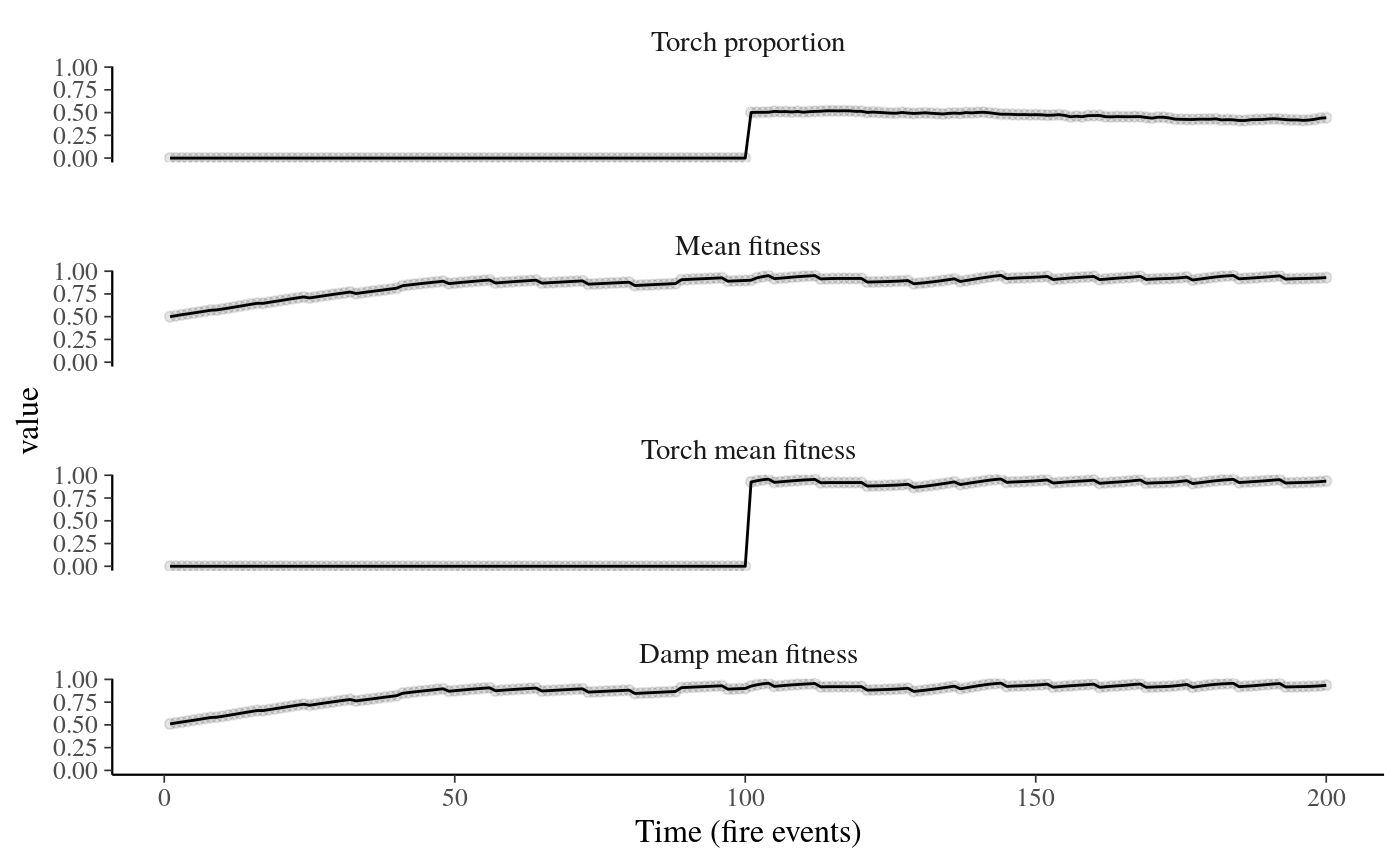
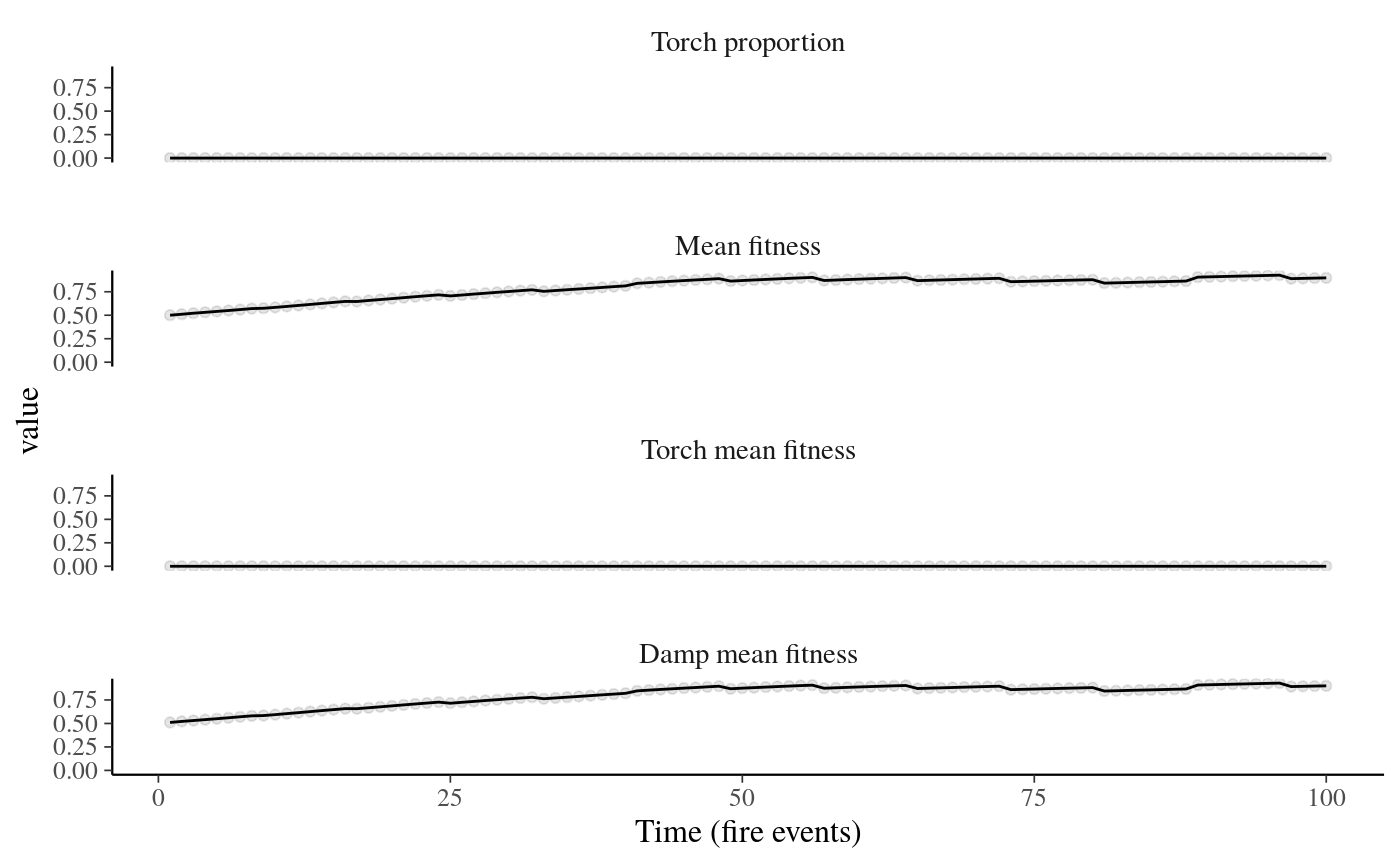
Installation

diff --git a/docs/articles/exploration.html b/docs/articles/exploration.html
@@ -92,7 +92,7 @@
 <span class="co">#&gt; ── Conflicts ───────────────────────────────────────────────────────────────────────────────────────────────────────────────────────── tidyverse_conflicts() ──</span>
 <span class="co">#&gt; ✖ dplyr::filter() masks stats::filter()</span>
 <span class="co">#&gt; ✖ dplyr::lag()    masks stats::lag()</span></pre></body></html></div>
-<div class="sourceCode" id="cb2"><html><body><pre class="r"><span class="fu"><a href="https://rdrr.io/pkg/symsympho/man/nichehiking.html">nichehiking</a></span>(<span class="kw">grid</span> <span class="kw">=</span> <span class="fl">100</span>, <span class="kw">torch_init</span> <span class="kw">=</span> <span class="fl">0.5</span>, <span class="kw">cycles</span> <span class="kw">=</span> <span class="fl">1</span>, <span class="kw">agemax</span> <span class="kw">=</span> <span class="fl">200</span>) <span class="kw">%&gt;%</span>
+<div class="sourceCode" id="cb2"><html><body><pre class="r"><span class="fu"><a href="../reference/nichehiking.html">nichehiking</a></span>(<span class="kw">grid</span> <span class="kw">=</span> <span class="fl">100</span>, <span class="kw">torch_init</span> <span class="kw">=</span> <span class="fl">0.5</span>, <span class="kw">cycles</span> <span class="kw">=</span> <span class="fl">1</span>, <span class="kw">agemax</span> <span class="kw">=</span> <span class="fl">100</span>) <span class="kw">%&gt;%</span>
   <span class="fu">plot.nichehiking</span>()</pre></body></html></div>
 <p><img src="exploration_files/figure-html/quicktest-1.png" width="700"></p>
   </div>

diff --git a/docs/index.html b/docs/index.html
@@ -76,12 +76,24 @@
 <a href="#simsympho" class="anchor"></a>simsympho</h1></div>
 <p><em>I should probably change the name later.</em></p>
 <p>This is a quick exploration of reusing the model from <a href="https://github.com/dschwilk/ms-data-Oikos-2002">Schwilt and Kerr (2002)</a> to model the eco-evolutionnary dynamics of <em>Symphonia globulifera</em> with topography and forest gaps dynamics based on PhD results.</p>
+<div id="installation" class="section level2">
+<h2 class="hasAnchor">
+<a href="#installation" class="anchor"></a>Installation</h2>
+<pre><code><a href="https://devtools.r-lib.org//reference/remote-reexports.html">devtools::install_github("sylvainschmitt/simsympho")</a></code></pre>
+</div>
+<div id="test" class="section level2">
+<h2 class="hasAnchor">
+<a href="#test" class="anchor"></a>Test</h2>
+<pre><code>nichehiking(grid = 100, torch_init = 0.5, cycles = 1, agemax = 100) %&gt;% 
+  plot.nichehiking()</code></pre>
+</div>
 <div id="news" class="section level2">
 <h2 class="hasAnchor">
 <a href="#news" class="anchor"></a>News</h2>
 <ul>
 <li>started integration as <code>Rcpp</code> package</li>
 <li>fixed Rcpp</li>
+<li><code>pkgdown</code></li>
 </ul>
 </div>
 <div id="todo" class="section level2">

diff --git a/docs/reference/symsympho-package.html b/docs/reference/symsympho-package.html
@@ -6,7 +6,7 @@
 <meta http-equiv="X-UA-Compatible" content="IE=edge">
 <meta name="viewport" content="width=device-width, initial-scale=1.0">
 
-<title>A short title line describing what the package does — symsymphoRcpp-package • symsympho</title>
+<title>A short title line describing what the package does — symsympho-package • symsympho</title>
 
 <!-- jquery -->
 <script src="https://cdnjs.cloudflare.com/ajax/libs/jquery/3.4.1/jquery.min.js" integrity="sha256-CSXorXvZcTkaix6Yvo6HppcZGetbYMGWSFlBw8HfCJo=" crossorigin="anonymous"></script>
@@ -36,7 +36,7 @@
 
 
 
-<meta property="og:title" content="A short title line describing what the package does — symsymphoRcpp-package" />
+<meta property="og:title" content="A short title line describing what the package does — symsympho-package" />
 
 <meta property="og:description" content="A more detailed description of what the package does. A length
   of about one to five lines is recommended." />

diff --git a/docs/reference/index.html b/docs/reference/index.html
@@ -143,7 +143,7 @@
       </tr><tr>
         
         <td>
-          <p><code><a href="symsympho-package.html">symsymphoRcpp-package</a></code> </p>
+          <p><code><a href="symsympho-package.html">symsympho-package</a></code> </p>
         </td>
         <td><p>A short title line describing what the package does</p></td>
       </tr>

diff --git a/src/RcppExports.cpp b/src/RcppExports.cpp
@@ -6,8 +6,8 @@
 using namespace Rcpp;
 
 // nichehiking_cpp
-List nichehiking_cpp(int grid, double torch_init, int cycles, int agemax, int changePeriod, double mortRate, int pneigh, int sneigh, int bneigh, double mu, double r);
-RcppExport SEXP _symsympho_nichehiking_cpp(SEXP gridSEXP, SEXP torch_initSEXP, SEXP cyclesSEXP, SEXP agemaxSEXP, SEXP changePeriodSEXP, SEXP mortRateSEXP, SEXP pneighSEXP, SEXP sneighSEXP, SEXP bneighSEXP, SEXP muSEXP, SEXP rSEXP) {
+List nichehiking_cpp(int grid, double torch_init, int cycles, int agemax, int changePeriod, double mortRate, int pneigh, int sneigh, int bneigh, double mu, double r, bool verbose);
+RcppExport SEXP _symsympho_nichehiking_cpp(SEXP gridSEXP, SEXP torch_initSEXP, SEXP cyclesSEXP, SEXP agemaxSEXP, SEXP changePeriodSEXP, SEXP mortRateSEXP, SEXP pneighSEXP, SEXP sneighSEXP, SEXP bneighSEXP, SEXP muSEXP, SEXP rSEXP, SEXP verboseSEXP) {
 BEGIN_RCPP
     Rcpp::RObject rcpp_result_gen;
     Rcpp::RNGScope rcpp_rngScope_gen;
@@ -22,13 +22,14 @@ BEGIN_RCPP
     Rcpp::traits::input_parameter< int >::type bneigh(bneighSEXP);
     Rcpp::traits::input_parameter< double >::type mu(muSEXP);
     Rcpp::traits::input_parameter< double >::type r(rSEXP);
-    rcpp_result_gen = Rcpp::wrap(nichehiking_cpp(grid, torch_init, cycles, agemax, changePeriod, mortRate, pneigh, sneigh, bneigh, mu, r));
+    Rcpp::traits::input_parameter< bool >::type verbose(verboseSEXP);
+    rcpp_result_gen = Rcpp::wrap(nichehiking_cpp(grid, torch_init, cycles, agemax, changePeriod, mortRate, pneigh, sneigh, bneigh, mu, r, verbose));
     return rcpp_result_gen;
 END_RCPP
 }
 
 static const R_CallMethodDef CallEntries[] = {
-    {"_symsympho_nichehiking_cpp", (DL_FUNC) &_symsympho_nichehiking_cpp, 11},
+    {"_symsympho_nichehiking_cpp", (DL_FUNC) &_symsympho_nichehiking_cpp, 12},
     {NULL, NULL, 0}
 };
 

diff --git a/src/nichehiking.cpp b/src/nichehiking.cpp
@@ -23,7 +23,8 @@ List nichehiking_cpp(
     int sneigh = 3,
     int bneigh = 3,
     double mu = 0.00001,
-    double r = 0.08
+    double r = 0.08,
+    bool verbose = TRUE
 ) {
   
   DWS::set_randomizer_seed(-100);
@@ -49,19 +50,18 @@ List nichehiking_cpp(
 	LS.SetBurnNeighborhood(bneigh);
 	LS.Setr(r);
 	LS.SetMutationRate(mu);
-	std::cout << "new landscape" << std::endl;	
+	if(verbose) std::cout << "new landscape" << std::endl;	
 	for(int i = 0; i < agemax; ++i) {
 	  LS.RunForCycles(cycles);
-	  fit = LS.MeanFitness();
 	  LS.TorchDampFitness(TFitS, DFitS);
-	  std::cout << LS.Age() << '\t' << pneigh << '\t' << changePeriod << '\t' << mortRate << '\t' << LS.MeanFitness() << '\t' << fit << '\t' << LS.TorchProp() << std::endl;
+	  if(verbose) std::cout << LS.Age() << '\t' << pneigh << '\t' << changePeriod << '\t' << mortRate << '\t' << LS.MeanFitness() << '\t' << fit << '\t' << LS.TorchProp() << std::endl;
 	  age_vec[i] = LS.Age();
 	  tprop_vec[i] = LS.TorchProp();
 	  fit_vec[i] = LS.MeanFitness();
 	  tfit_vec[i] = TFitS.Mean();
 	  dfit_vec[i] = DFitS.Mean();
 	  if (LS.Age() == 100) { // 100
-	    std::cout << "Adding torches" << std::endl;
+	    if(verbose) std::cout << "Adding torches" << std::endl;
 	    LS.AddTorches(torch_init);
 	  }
 	  // if(LS.Age()==10007) {

diff --git a/README.md b/README.md
@@ -4,6 +4,19 @@
 
 This is a quick exploration of reusing the model from [Schwilt and Kerr (2002)](https://github.com/dschwilk/ms-data-Oikos-2002) to model the eco-evolutionnary dynamics of *Symphonia globulifera* with topography and forest gaps dynamics based on PhD results.
 
+## Installation
+
+```
+devtools::install_github("sylvainschmitt/simsympho")
+```
+
+## Test
+
+```
+nichehiking(grid = 100, torch_init = 0.5, cycles = 1, agemax = 100) %>% 
+  plot.nichehiking()
+```
+
 ## News
 
 * started integration as `Rcpp` package
